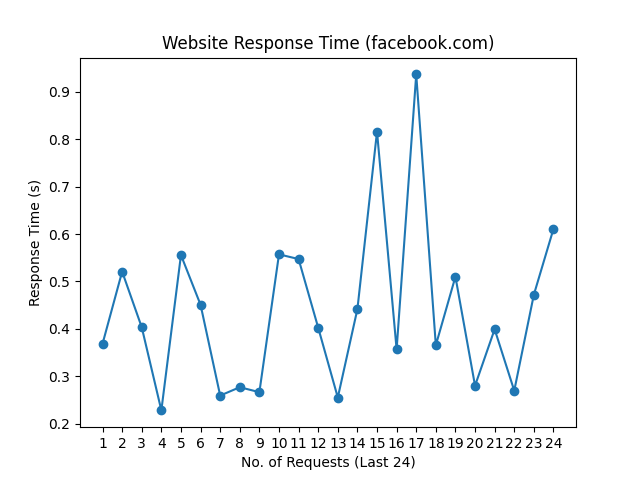
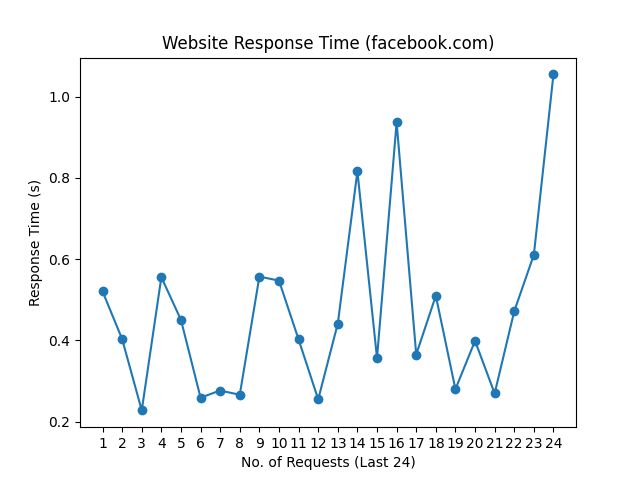
update README.md, history and graph

diff --git a/README.md b/README.md
@@ -1,10 +1,10 @@
 # Web Monitoring
 
-Last Checked: 03/09/2024 08:18
+Last Checked: 04/09/2024 08:18
 
 | Website | Response Time (s) | Status | Avg Uptime (%) |
 |---------|-------------------|--------|----------------|
 | www.thiswebsiteisdown.net | 0 <br> <img src="graph/thiswebsiteisdown.net.png" alt="Graph" width="200" height="200">  | ❌ Down | 0.00 |
-| www.netflix.com | 0.832469 <br> <img src="graph/netflix.com.png" alt="Graph" width="200" height="200">  | ✅ Up | 100.00 |
-| www.google.com | 0.105161 <br> <img src="graph/google.com.png" alt="Graph" width="200" height="200">  | ✅ Up | 100.00 |
-| www.facebook.com | 0.610671 <br> <img src="graph/facebook.com.png" alt="Graph" width="200" height="200">  | ✅ Up | 100.00 |
+| www.netflix.com | 0.771780 <br> <img src="graph/netflix.com.png" alt="Graph" width="200" height="200">  | ✅ Up | 100.00 |
+| www.google.com | 0.099018 <br> <img src="graph/google.com.png" alt="Graph" width="200" height="200">  | ✅ Up | 100.00 |
+| www.facebook.com | 1.054810 <br> <img src="graph/facebook.com.png" alt="Graph" width="200" height="200">  | ✅ Up | 100.00 |
